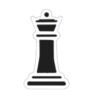
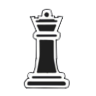
Putting the pieces on the board

Changed region(s): [[0.25, 0.0938, 0.75, 0.9375]]

diff --git a/GraphicalBoard.java b/GraphicalBoard.java
@@ -4,7 +4,29 @@ import javax.swing.*;
 
 public class GraphicalBoard extends JFrame{
     
-    
+    // Images of the black pieces;
+    ImageIcon blackPawn = new ImageIcon("C:/Users/jstef/Desktop/Projetos Programação/JavaProjects/Chess/Images/Pieces/BlackPieces/BlackPawn.png");
+    ImageIcon blackBishop = new ImageIcon("C:/Users/jstef/Desktop/Projetos Programação/JavaProjects/Chess/Images/Pieces/BlackPieces/BlackBishop.png");
+    ImageIcon blackTower = new ImageIcon("C:/Users/jstef/Desktop/Projetos Programação/JavaProjects/Chess/Images/Pieces/BlackPieces/BlackTower.png");
+    ImageIcon blackHorse = new ImageIcon("C:/Users/jstef/Desktop/Projetos Programação/JavaProjects/Chess/Images/Pieces/BlackPieces/BlackHorse.png");
+    ImageIcon blackQueen = new ImageIcon("C:/Users/jstef/Desktop/Projetos Programação/JavaProjects/Chess/Images/Pieces/BlackPieces/BlackQueen.png");
+    ImageIcon blackKing = new ImageIcon("C:/Users/jstef/Desktop/Projetos Programação/JavaProjects/Chess/Images/Pieces/BlackPieces/BlackKing.png");
+
+    // Images of the white pieces;
+    ImageIcon whitePawn = new ImageIcon("C:/Users/jstef/Desktop/Projetos Programação/JavaProjects/Chess/Images/Pieces/WhitePieces/WhitePawn.png");
+    ImageIcon whiteBishop = new ImageIcon("C:/Users/jstef/Desktop/Projetos Programação/JavaProjects/Chess/Images/Pieces/WhitePieces/WhiteBishop.png");
+    ImageIcon whiteTower = new ImageIcon("C:/Users/jstef/Desktop/Projetos Programação/JavaProjects/Chess/Images/Pieces/WhitePieces/WhiteTower.png");
+    ImageIcon whiteHorse = new ImageIcon("C:/Users/jstef/Desktop/Projetos Programação/JavaProjects/Chess/Images/Pieces/WhitePieces/WhiteHorse.png");
+    ImageIcon whiteQueen = new ImageIcon("C:/Users/jstef/Desktop/Projetos Programação/JavaProjects/Chess/Images/Pieces/WhitePieces/WhiteQueen.png");
+    ImageIcon whiteKing = new ImageIcon("C:/Users/jstef/Desktop/Projetos Programação/JavaProjects/Chess/Images/Pieces/WhitePieces/WhiteKing.png");
+
+    // Constants to use in the program, that are numbers in pixels;
+    private static final int SIZEBOARD = 768;
+    private static final int GRIDSIZE = 96;
+    private static final int INITIALPIECEWIDTH = 392;
+    private static final int INITIALPICEHEIGTH = 60;
+
+    // The method to create the board;
     public void openBoard() {
 
         // Creating a new Window;
@@ -31,36 +53,80 @@ public class GraphicalBoard extends JFrame{
     @Override
     public void paint(Graphics graphics) {
         super.paint(graphics);
-
+            
         // Put the backgroud of the board in black;
         graphics.setColor(Color.BLACK);
-        graphics.fillRect((getWidth() - 768)/2, (getHeight() - 768)/2, 768, 768);
-  
+        graphics.fillRect((getWidth() - SIZEBOARD)/2, (getHeight() - SIZEBOARD)/2, SIZEBOARD, SIZEBOARD);
+      
         // Select parts of the board and painting with white;
-        graphics.setColor(Color.WHITE);
-        int gridSize = 96; 
-        int numCols = getWidth() / gridSize;
+        graphics.setColor(Color.WHITE); 
+        int numCols = getWidth() / GRIDSIZE;
         for (int row = 0; row < 8; row++) {
-            
+                
             if (row % 2 == 0) {
                 for (int col = 0; col < numCols/2; col  += 2) {
-                
-                    int x = (getWidth() - 768) / 2 + col * gridSize;
-                    int y = (getHeight() - 768) / 2 + row * gridSize;
-    
-                    graphics.fillRect(x, y, gridSize, gridSize);
+                    
+                    int x = (getWidth() - SIZEBOARD) / 2 + col * GRIDSIZE;
+                    int y = (getHeight() - SIZEBOARD) / 2 + row * GRIDSIZE;
+        
+                    graphics.fillRect(x, y, GRIDSIZE, GRIDSIZE);
                 }
             }
             else {
                 for (int col = 1; col < numCols/2; col += 2) {
-                
-                    int x = (getWidth() - 768) / 2 + col * gridSize;
-                    int y = (getHeight() - 768) / 2 + row * gridSize;
-    
-                    graphics.fillRect(x, y, gridSize, gridSize);
+                    
+                    int x = (getWidth() - SIZEBOARD) / 2 + col * GRIDSIZE;
+                    int y = (getHeight() - SIZEBOARD) / 2 + row * GRIDSIZE;
+        
+                    graphics.fillRect(x, y, GRIDSIZE, GRIDSIZE);
                 }
             }
         }
 
+        // Drawing the black pieces on the board;
+        // The Towers:
+        graphics.drawImage(blackTower.getImage(), INITIALPIECEWIDTH, INITIALPICEHEIGTH, this);
+        graphics.drawImage(blackTower.getImage(), INITIALPIECEWIDTH + 7 * GRIDSIZE, INITIALPICEHEIGTH, this);
+        // The Horses:
+        graphics.drawImage(blackHorse.getImage(), INITIALPIECEWIDTH + GRIDSIZE, INITIALPICEHEIGTH, this);
+        graphics.drawImage(blackHorse.getImage(), INITIALPIECEWIDTH + 6 * GRIDSIZE, INITIALPICEHEIGTH, this);
+        // The Bishops:
+        graphics.drawImage(blackBishop.getImage(), INITIALPIECEWIDTH + 2 * GRIDSIZE, INITIALPICEHEIGTH, this);
+        graphics.drawImage(blackBishop.getImage(), INITIALPIECEWIDTH + 5 * GRIDSIZE, INITIALPICEHEIGTH, this);
+        // The Queen and King:
+        graphics.drawImage(blackQueen.getImage(), INITIALPIECEWIDTH + 3 * GRIDSIZE, INITIALPICEHEIGTH, this);
+        graphics.drawImage(blackKing.getImage(), INITIALPIECEWIDTH + 4 * GRIDSIZE, INITIALPICEHEIGTH, this);
+        // The Pawns:
+        graphics.drawImage(blackPawn.getImage(), INITIALPIECEWIDTH, INITIALPICEHEIGTH + GRIDSIZE, this);
+        graphics.drawImage(blackPawn.getImage(), INITIALPIECEWIDTH + GRIDSIZE, INITIALPICEHEIGTH + GRIDSIZE, this);
+        graphics.drawImage(blackPawn.getImage(), INITIALPIECEWIDTH + 2 * GRIDSIZE, INITIALPICEHEIGTH + GRIDSIZE, this);
+        graphics.drawImage(blackPawn.getImage(), INITIALPIECEWIDTH + 3 * GRIDSIZE, INITIALPICEHEIGTH + GRIDSIZE, this);
+        graphics.drawImage(blackPawn.getImage(), INITIALPIECEWIDTH + 4 * GRIDSIZE, INITIALPICEHEIGTH + GRIDSIZE, this);
+        graphics.drawImage(blackPawn.getImage(), INITIALPIECEWIDTH + 5 * GRIDSIZE, INITIALPICEHEIGTH + GRIDSIZE, this);
+        graphics.drawImage(blackPawn.getImage(), INITIALPIECEWIDTH + 6 * GRIDSIZE, INITIALPICEHEIGTH + GRIDSIZE, this);
+        graphics.drawImage(blackPawn.getImage(), INITIALPIECEWIDTH + 7 * GRIDSIZE, INITIALPICEHEIGTH + GRIDSIZE, this);
+
+        // Drawing the white pieces on the board;
+        // The Towers:
+        graphics.drawImage(whiteTower.getImage(), INITIALPIECEWIDTH, INITIALPICEHEIGTH + 7 * GRIDSIZE, this);
+        graphics.drawImage(whiteTower.getImage(), INITIALPIECEWIDTH + 7 * GRIDSIZE, INITIALPICEHEIGTH + 7 * GRIDSIZE, this);
+        // The Horses:
+        graphics.drawImage(whiteHorse.getImage(), INITIALPIECEWIDTH + GRIDSIZE, INITIALPICEHEIGTH + 7 * GRIDSIZE, this);
+        graphics.drawImage(whiteHorse.getImage(), INITIALPIECEWIDTH + 6 * GRIDSIZE, INITIALPICEHEIGTH + 7 * GRIDSIZE, this);
+        // The Bishops:
+        graphics.drawImage(whiteBishop.getImage(), INITIALPIECEWIDTH + 2 * GRIDSIZE, INITIALPICEHEIGTH + 7 * GRIDSIZE, this);
+        graphics.drawImage(whiteBishop.getImage(), INITIALPIECEWIDTH + 5 *  GRIDSIZE, INITIALPICEHEIGTH + 7 * GRIDSIZE, this);
+        // The Queen and King:
+        graphics.drawImage(whiteQueen.getImage(), INITIALPIECEWIDTH + 3 * GRIDSIZE, INITIALPICEHEIGTH + 7 * GRIDSIZE, this);
+        graphics.drawImage(whiteKing.getImage(), INITIALPIECEWIDTH + 4 * GRIDSIZE, INITIALPICEHEIGTH + 7 * GRIDSIZE, this);
+        // The Pawns:
+        graphics.drawImage(whitePawn.getImage(), INITIALPIECEWIDTH , INITIALPICEHEIGTH + 6 * GRIDSIZE, this);
+        graphics.drawImage(whitePawn.getImage(), INITIALPIECEWIDTH + GRIDSIZE, INITIALPICEHEIGTH + 6 * GRIDSIZE, this);
+        graphics.drawImage(whitePawn.getImage(), INITIALPIECEWIDTH + 2 * GRIDSIZE, INITIALPICEHEIGTH + 6 * GRIDSIZE, this);
+        graphics.drawImage(whitePawn.getImage(), INITIALPIECEWIDTH + 3 * GRIDSIZE, INITIALPICEHEIGTH + 6 * GRIDSIZE, this);
+        graphics.drawImage(whitePawn.getImage(), INITIALPIECEWIDTH + 4 * GRIDSIZE, INITIALPICEHEIGTH + 6 * GRIDSIZE, this);
+        graphics.drawImage(whitePawn.getImage(), INITIALPIECEWIDTH + 5 * GRIDSIZE, INITIALPICEHEIGTH + 6 * GRIDSIZE, this);
+        graphics.drawImage(whitePawn.getImage(), INITIALPIECEWIDTH + 6 * GRIDSIZE, INITIALPICEHEIGTH + 6 * GRIDSIZE, this);
+        graphics.drawImage(whitePawn.getImage(), INITIALPIECEWIDTH + 7 * GRIDSIZE, INITIALPICEHEIGTH + 6 * GRIDSIZE, this);
     }
 }
